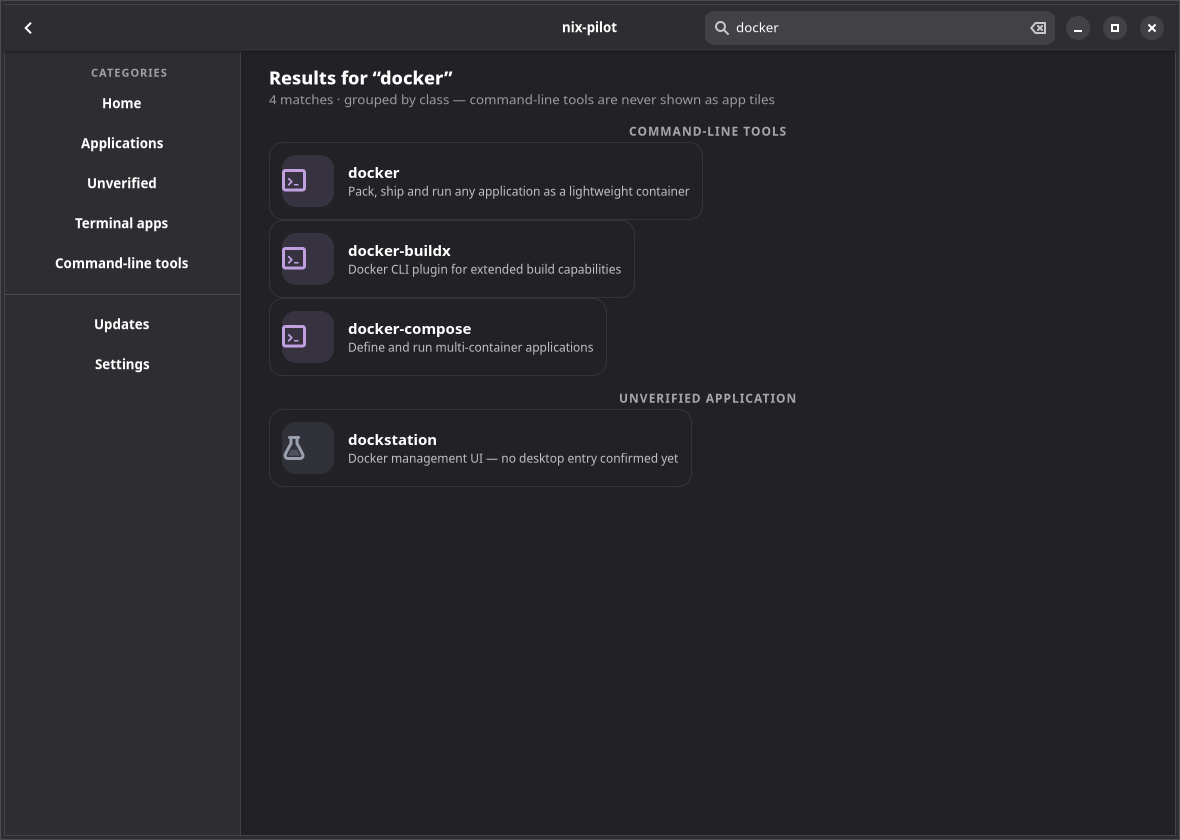
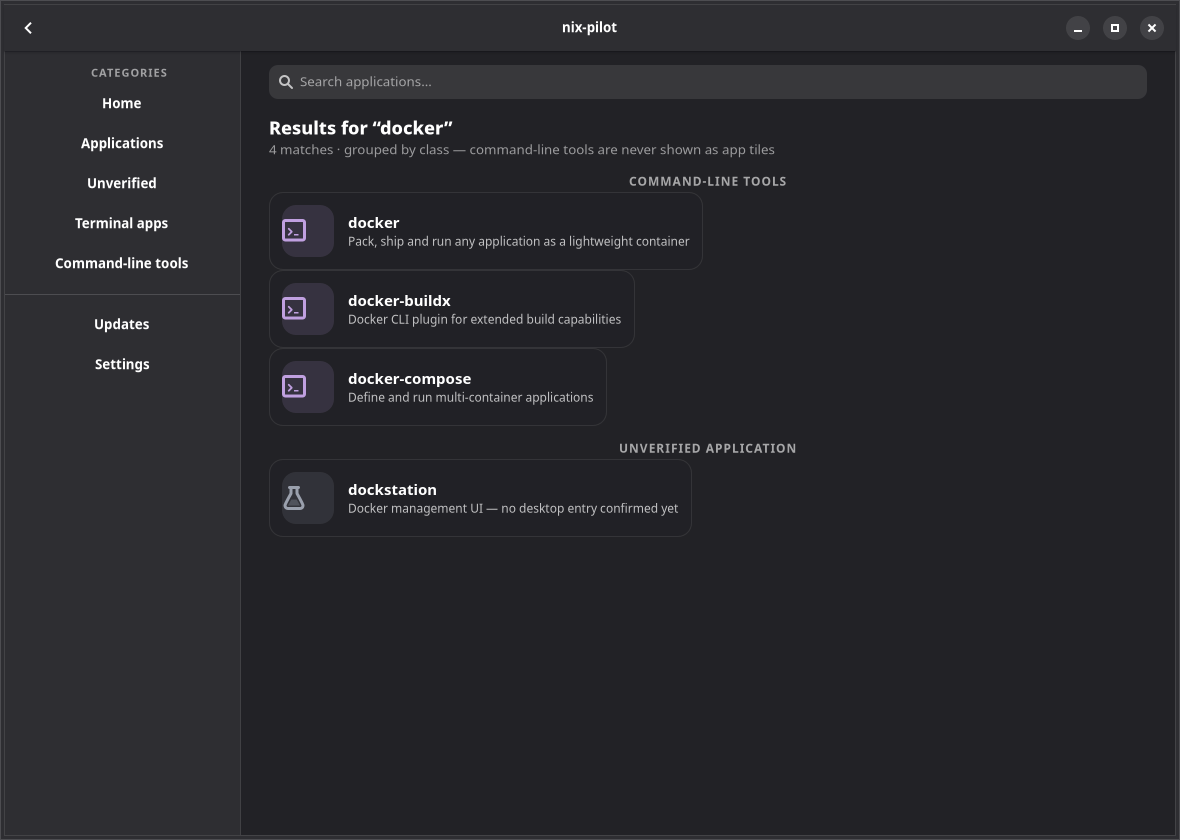
feat(app): store-local search scope; folder-namespaced justfile
Wireframe search is now store-local: the SearchEntry lives inside the
store page (home + results), not the header; the header global search is
a separate architecture surface to design later. Root justfile reorganised
by folder: 'just app <recipe>' drops into app/Justfile ('just app' lists
it), 'just phase0 <recipe>' into experiments/phase0/Justfile.

diff --git a/app/src/bin/proto.rs b/app/src/bin/proto.rs
@@ -1,9 +1,12 @@
 // Navigable wireframe prototype: the page .blp files (compiled to .ui) become
 // Gtk.Stack pages inside one shell with a sidebar, so navigation is clickable:
-//   sidebar -> top-level pages; app card -> detail; search -> results; back.
+//   sidebar -> top-level pages; app card -> detail; store search -> results; back.
+//
+// Search is store-local: the SearchEntry lives INSIDE the store page (home +
+// results), not in the header — the header global search is a separate surface.
 //
 // Screenshot-driven rendering: --page <home|search|detail|settings|updates>
-// sets the initial page, --search <text> pre-fills the search entry, and
+// sets the initial page, --search <text> pre-fills the store search, and
 // --detail <name> sets the detail page title (for captures).
 use std::cell::RefCell;
 use std::rc::Rc;
@@ -19,6 +22,21 @@ fn arg(name: &str) -> Option<String> {
 fn load_box(build_dir: &str, file: &str, id: &str) -> gtk4::Box {
     let b = gtk4::Builder::from_file(format!("{}/{}", build_dir, file));
     b.object(id).unwrap_or_else(|| panic!("missing {id} in {file}"))
+}
+
+// Store-local search: any non-empty query shows the grouped results page.
+fn wire_store_search(entry: &gtk4::SearchEntry, stack: &gtk4::Stack, prev: &Rc<RefCell<String>>) {
+    let stack = stack.clone();
+    let prev = prev.clone();
+    entry.connect_search_changed(move |s| {
+        let q = s.text();
+        if q.is_empty() {
+            stack.set_visible_child_name("home");
+        } else if stack.visible_child_name().as_deref() != Some("search") {
+            *prev.borrow_mut() = stack.visible_child_name().unwrap_or_default().to_string();
+            stack.set_visible_child_name("search");
+        }
+    });
 }
 
 fn main() {
@@ -42,11 +60,12 @@ fn main() {
             gtk4::style_context_add_provider_for_display(&d, &provider, gtk4::STYLE_PROVIDER_PRIORITY_APPLICATION);
         }
     }
+
     let initial = arg("--page").unwrap_or_else(|| "home".into());
     let search_text = arg("--search").unwrap_or_default();
     let detail_name = arg("--detail").unwrap_or_default();
 
-    // ---- shell window ---------------------------------------------------
+    // ---- window chrome (no global search here — that is a separate surface) ----
     let window = gtk4::Window::builder()
         .title("nix-pilot — wireframe prototype")
         .default_width(1180)
@@ -59,20 +78,23 @@ fn main() {
     back.set_tooltip_text(Some("Back"));
     let title = gtk4::Label::new(Some("nix-pilot"));
     title.add_css_class("title");
-    let search = gtk4::SearchEntry::new();
-    search.set_placeholder_text(Some("Search applications…"));
-    search.set_width_chars(36);
     header.pack_start(&back);
     header.set_title_widget(Some(&title));
-    header.pack_end(&search);
     window.set_titlebar(Some(&header));
 
-    // ---- pages -----------------------------------------------------------
+    // ---- pages ------------------------------------------------------------
     let stack = gtk4::Stack::new();
     stack.set_transition_type(gtk4::StackTransitionType::Crossfade);
 
-    let page_home = load_box(&build_dir, "page-home.ui", "page_home");
-    let page_search = load_box(&build_dir, "page-search.ui", "page_search");
+    // home + its store-local search come from one builder (so we wire the entry)
+    let home_b = gtk4::Builder::from_file(format!("{}/page-home.ui", build_dir));
+    let page_home: gtk4::Box = home_b.object("page_home").expect("page_home");
+    let store_search_home: gtk4::SearchEntry = home_b.object("store_search").expect("store_search in page-home");
+
+    let search_b = gtk4::Builder::from_file(format!("{}/page-search.ui", build_dir));
+    let page_search: gtk4::Box = search_b.object("page_search").expect("page_search");
+    let store_search_results: gtk4::SearchEntry = search_b.object("store_search").expect("store_search in page-search");
+
     let page_detail = load_box(&build_dir, "page-detail.ui", "page_detail");
     let page_settings = load_box(&build_dir, "page-settings.ui", "page_settings");
     let page_updates = load_box(&build_dir, "page-updates.ui", "page_updates");
@@ -85,7 +107,7 @@ fn main() {
     stack.set_vexpand(true);
     stack.set_hexpand(true);
 
-    // ---- sidebar (nav switches top-level pages) --------------------------
+    // ---- sidebar -----------------------------------------------------------
     let sidebar = gtk4::Box::new(gtk4::Orientation::Vertical, 0);
     sidebar.add_css_class("nav");
     sidebar.set_width_request(236);
@@ -124,10 +146,10 @@ fn main() {
     body.append(&sidebar);
     body.append(&stack);
 
-    // ---- navigation wiring ----------------------------------------------
+    // ---- prev-page tracking for Back ---------------------------------------
     let prev: Rc<RefCell<String>> = Rc::new(RefCell::new("home".to_string()));
 
-    // app cards -> detail (clicking sets the detail title)
+    // ---- app cards -> detail ------------------------------------------------
     let detail_title: gtk4::Label = {
         let b = gtk4::Builder::from_file(format!("{}/page-detail.ui", build_dir));
         b.object("detail_title").expect("detail_title")
@@ -144,10 +166,8 @@ fn main() {
         }
         let _ = btn;
     };
-
     let hook_card = |id: &str, name: &str| {
-        let b = gtk4::Builder::from_file(format!("{}/page-home.ui", build_dir));
-        if let Some(btn) = b.object::<gtk4::Button>(id) {
+        if let Some(btn) = home_b.object::<gtk4::Button>(id) {
             let card_click = card_click.clone();
             let name = name.to_string();
             btn.connect_clicked(move |b| card_click(b, &name));
@@ -160,20 +180,11 @@ fn main() {
     hook_card("card_bork", "Bork");
     hook_card("card_astroterm", "Astroterm");
 
-    // search -> results page while typing
-    let stack_s = stack.clone();
-    let pc_s = prev.clone();
-    search.connect_search_changed(move |s| {
-        let q = s.text();
-        if q.is_empty() {
-            stack_s.set_visible_child_name("home");
-        } else if stack_s.visible_child_name().as_deref() != Some("search") {
-            *pc_s.borrow_mut() = stack_s.visible_child_name().unwrap_or_default().to_string();
-            stack_s.set_visible_child_name("search");
-        }
-    });
+    // ---- store-local search (home and results entries) -----------------------
+    wire_store_search(&store_search_home, &stack, &prev);
+    wire_store_search(&store_search_results, &stack, &prev);
 
-    // back -> previous page
+    // ---- back -> previous page ----------------------------------------------
     let stack_b = stack.clone();
     let pc_b = prev.clone();
     back.connect_clicked(move |_| {
@@ -181,9 +192,9 @@ fn main() {
         stack_b.set_visible_child_name(&to);
     });
 
-    // ---- initial state for captures --------------------------------------
+    // ---- initial state for captures ------------------------------------------
     if !search_text.is_empty() {
-        search.set_text(&search_text);
+        store_search_home.set_text(&search_text);
     }
     if !detail_name.is_empty() {
         detail_title.set_text(&detail_name);

diff --git a/app/wireframes/navigation.md b/app/wireframes/navigation.md
@@ -1,8 +1,15 @@
 # Wireframe navigation map
 
-The wireframes are a single clickable prototype (`cargo run --bin proto` in the
-dev shell): one window, sidebar + stack pages. This map is the at-a-glance
-route diagram; the PNGs are the rendered states.
+The wireframes are a single clickable prototype (`just app proto`): one window,
+sidebar + stack pages. This map is the at-a-glance route diagram; the PNGs are
+the rendered states.
+
+**Search is store-local:** the search field lives inside the Software Store page
+(home + results), so it reads as "search the store". The header bar currently
+has no search — the app-wide global search is a separate surface in the
+architecture and is designed later.
+
+Note: `just app` lists the app recipes; `just app proto` opens the prototype.
 
 ## Routes
 
@@ -11,7 +18,7 @@ flowchart LR
     START([Sidebar navigation]) --> HOME[Software Store · home]
     HOME -->|"click an app card"| DETAIL[Application detail]
     DETAIL -->|"Back"| HOME
-    HOME -->|"type in search"| RESULTS[Search results · grouped]
+    HOME -->|"type in the store search"| RESULTS[Search results · grouped]
     RESULTS -->|"clear search / Back"| HOME
     START -->|"Updates"| UPD[Updates · transaction flow]
     UPD -->|"Prepare and install"| UPD2["summary → progress → rollback (spec: failure-and-recovery.md)"]
@@ -41,7 +48,6 @@ flowchart LR
 ## Regenerating
 
 ```sh
-cd app
-cargo build --bin proto
-./wireframes/render.sh          # some or all states
+just app build
+just app wireframes            # all states, or named ones: `just app wireframes detail`
 ```
